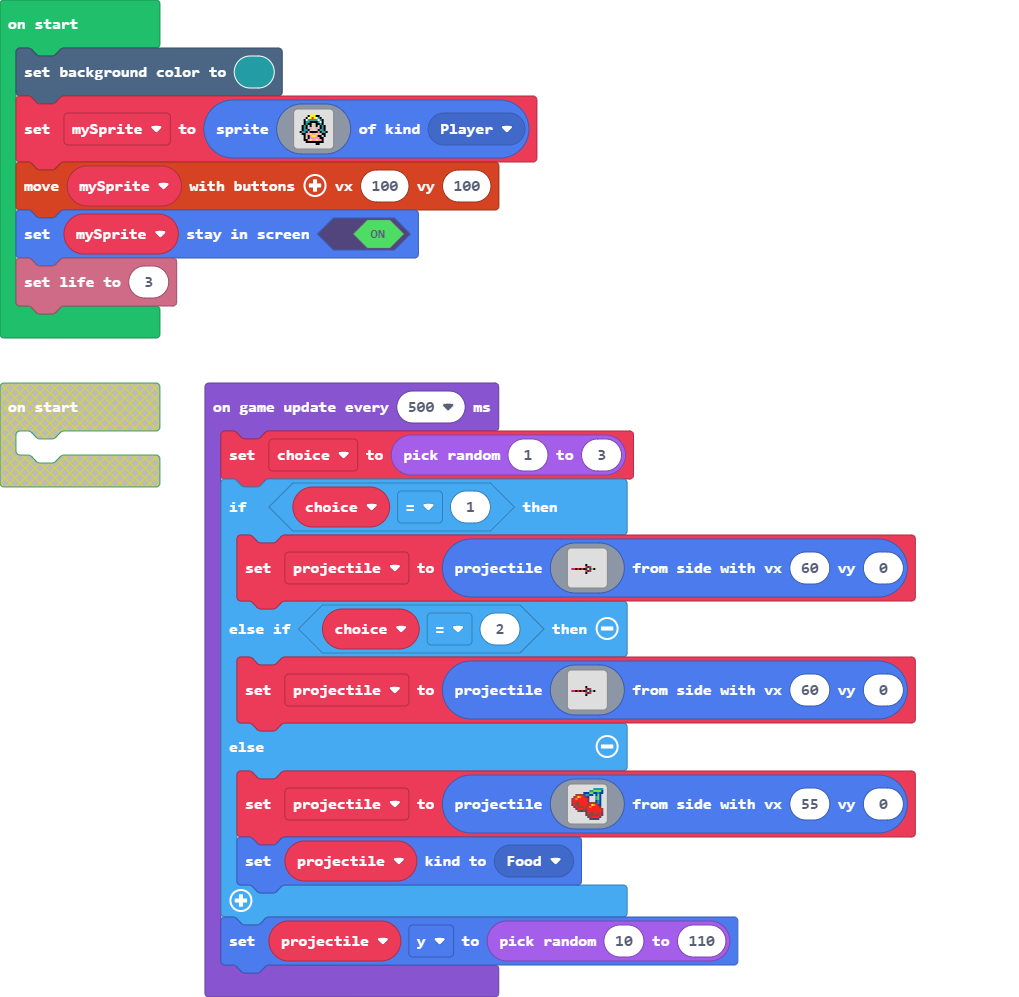
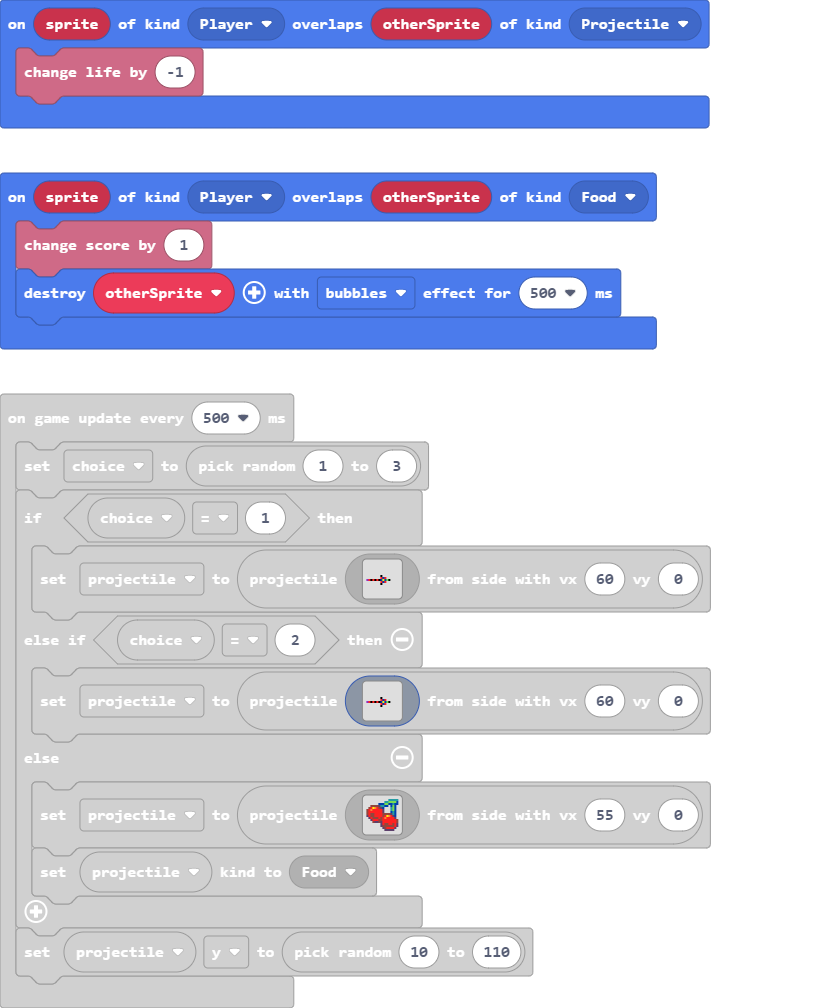
finished game

diff --git a/images.g.ts b/images.g.ts
@@ -75,6 +75,96 @@ a 2 f 2 f 2 f 8 5 8 7 f . . . .
 . . . . . . . . . . . . . . . . 
 . . . . . . . . . . . . . . . . 
 `;
+            case "image5":return img`
+. . . . . . . . . . . . . . . . 
+. . . . . . . . . . . . . . . . 
+. . . . . . . . . . . . . . . . 
+. . . . . . . . . . . . . . . . 
+. . . . . . . . . . . . . . . . 
+. . . . . . . . . . . . . . . . 
+. . . . . . . f . . . . . . . . 
+. . . . . . . 2 8 2 . . . . . . 
+a 2 f 2 f 2 f 8 5 8 7 f . . . . 
+. . . . . . . 2 8 2 . . . . . . 
+. . . . . . . f . . . . . . . . 
+. . . . . . . . . . . . . . . . 
+. . . . . . . . . . . . . . . . 
+. . . . . . . . . . . . . . . . 
+. . . . . . . . . . . . . . . . 
+. . . . . . . . . . . . . . . . 
+`;
+            case "image6":return img`
+. . . . . . . . . . . . . . . . 
+. . . . . . . . . . . . . . . . 
+. . . . . . . . . . . . . . . . 
+. . . . . . . . . . . . . . . . 
+. . . . . . . . . . . . . . . . 
+. . . . . . . . . . . . . . . . 
+. . . . . . . f . . . . . . . . 
+. . . . . . . 2 8 2 . . . . . . 
+a 2 f 2 f 2 f 8 5 8 7 f . . . . 
+. . . . . . . 2 8 2 . . . . . . 
+. . . . . . . f . . . . . . . . 
+. . . . . . . . . . . . . . . . 
+. . . . . . . . . . . . . . . . 
+. . . . . . . . . . . . . . . . 
+. . . . . . . . . . . . . . . . 
+. . . . . . . . . . . . . . . . 
+`;
+            case "image7":return img`
+. . . . . . . . . . . . . . . . 
+. . . . . . . . . . . . . . . . 
+. . . . . . . . . . . . . . . . 
+. . . . . . . . . . . . . . . . 
+. . . . . . . . . . . . . . . . 
+. . . . . . . . . . . . . . . . 
+. . . . . . . f . . . . . . . . 
+. . . . . . . 2 8 2 . . . . . . 
+a 2 f 2 f 2 f 8 5 8 7 f . . . . 
+. . . . . . . 2 8 2 . . . . . . 
+. . . . . . . f . . . . . . . . 
+. . . . . . . . . . . . . . . . 
+. . . . . . . . . . . . . . . . 
+. . . . . . . . . . . . . . . . 
+. . . . . . . . . . . . . . . . 
+. . . . . . . . . . . . . . . . 
+`;
+            case "image8":return img`
+. . . . . . . . . . . . . . . . 
+. . . . . . . . . . . . . . . . 
+. . . . . . . . . . . . . . . . 
+. . . . . . . . . . . . . . . . 
+. . . . . . . . . . . . . . . . 
+. . . . . . . . . . . . . . . . 
+. . . . . . . f . . . . . . . . 
+. . . . . . . 2 8 2 . . . . . . 
+a 2 f 2 f 2 f 8 5 8 7 f . . . . 
+. . . . . . . 2 8 2 . . . . . . 
+. . . . . . . f . . . . . . . . 
+. . . . . . . . . . . . . . . . 
+. . . . . . . . . . . . . . . . 
+. . . . . . . . . . . . . . . . 
+. . . . . . . . . . . . . . . . 
+. . . . . . . . . . . . . . . . 
+`;
+            case "image9":return img`
+. . . . . . . . . . . . . . . . 
+. . . . . . . . . . . . . . . . 
+. . . . . . . . . . . . . . . . 
+. . . . . . . . . . . . . . . . 
+. . . . . . . . . . . . . . . . 
+. . . . . . . . . . . . . . . . 
+. . . . . . . f . . . . . . . . 
+. . . . . . . 2 8 2 . . . . . . 
+a 2 f 2 f 2 f 8 5 8 7 f . . . . 
+. . . . . . . 2 8 2 . . . . . . 
+. . . . . . . f . . . . . . . . 
+. . . . . . . . . . . . . . . . 
+. . . . . . . . . . . . . . . . 
+. . . . . . . . . . . . . . . . 
+. . . . . . . . . . . . . . . . 
+. . . . . . . . . . . . . . . . 
+`;
         }
         return null;
     })

diff --git a/main.ts b/main.ts
@@ -1,3 +1,10 @@
+sprites.onOverlap(SpriteKind.Player, SpriteKind.Projectile, function (sprite, otherSprite) {
+    info.changeLifeBy(-1)
+})
+sprites.onOverlap(SpriteKind.Player, SpriteKind.Food, function (sprite, otherSprite) {
+    info.changeScoreBy(1)
+    otherSprite.destroy(effects.bubbles, 500)
+})
 let projectile: Sprite = null
 let choice = 0
 scene.setBackgroundColor(6)
